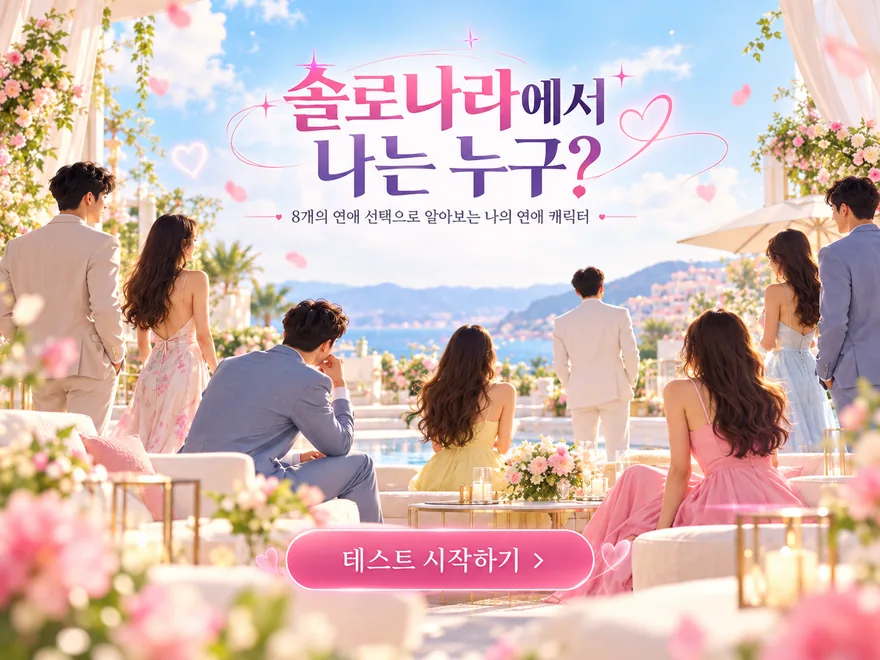
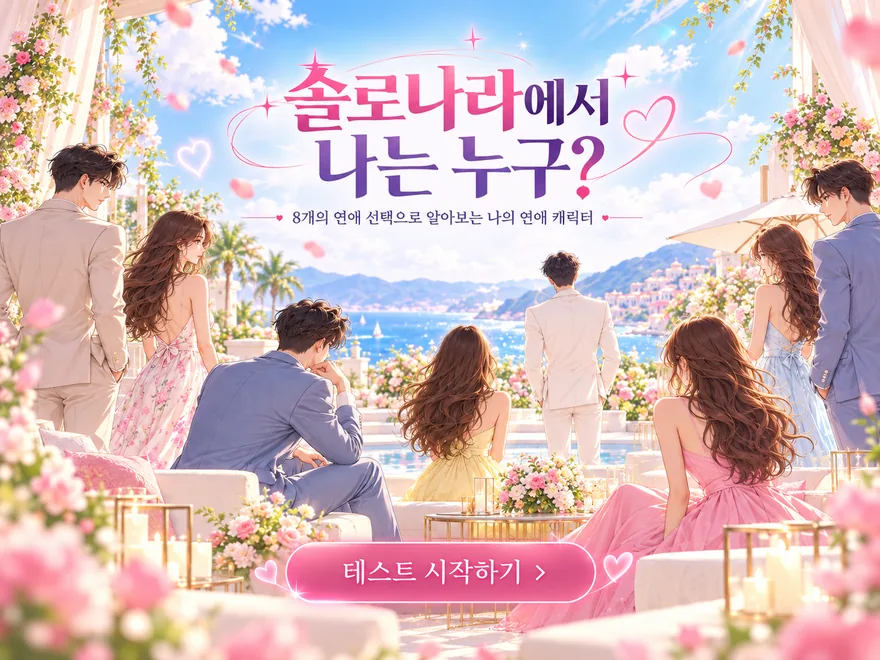
style(play): swap solo-nara key art to the illustrated version

diff --git a/사주/play/solo-nara/style.css b/사주/play/solo-nara/style.css
@@ -41,10 +41,10 @@ p{margin:0 0 16px}.muted{color:var(--muted);font-size:14px}.center{text-align:ce
 .hearts{position:absolute;inset:0;pointer-events:none;overflow:hidden;z-index:1}
 .hearts i{position:absolute;bottom:-20px;left:calc(6% + var(--n) * 16%);font-style:normal;font-size:calc(12px + (var(--n) * 3px) % 10px);color:var(--pink-2);opacity:0;animation:float-up 5.5s ease-in infinite;animation-delay:calc(var(--n) * .9s)}
 
-/* Intro: the hero art carries the title; the real start button overlays the painted one (32.5~67.3% x, 80.4~89.1% y). */
+/* Intro: the hero art carries the title; the real start button overlays the painted one (32.5~67.7% x, 82.4~91.2% y). */
 .hero{position:relative;margin:-22px -22px 0;line-height:0}
 .hero img{width:100%;height:auto;display:block}
-.hero-start{position:absolute;z-index:2;left:32%;top:80%;width:36%;height:9.5%;border:0;border-radius:999px;background:transparent;animation:hero-glow 2.4s ease-in-out .6s infinite}
+.hero-start{position:absolute;z-index:2;left:32%;top:82%;width:36%;height:9.5%;border:0;border-radius:999px;background:transparent;animation:hero-glow 2.4s ease-in-out .6s infinite}
 .hero-start:hover{background:rgba(255,255,255,.12)}.hero-start:active{transform:scale(.97)}
 .intro-meta{text-align:center;margin:18px 0 6px}
 .tag-rail{overflow:hidden;margin:14px -22px 18px;mask-image:linear-gradient(90deg,transparent,#000 15%,#000 85%,transparent)}

diff --git a/사주/play/solo-nara/index.html b/사주/play/solo-nara/index.html
@@ -21,7 +21,7 @@
   <meta name="twitter:description" content="8번의 선택으로 찾는 나의 솔로나라 이름. 너는 어떤 이름일까?">
   <meta name="twitter:image" content="https://umsh.kr/play/solo-nara/share-banner-v1.jpg">
   <meta name="twitter:image:alt" content="운명상회 솔로나라 캐릭터 테스트">
-  <link rel="stylesheet" href="./style.css?v=20261006b">
+  <link rel="stylesheet" href="./style.css?v=20261006c">
   <script defer src="https://cdn.jsdelivr.net/npm/@supabase/supabase-js@2/dist/umd/supabase.min.js"></script>
   <script defer src="/js/umsh-auth-session.js"></script>
   <script defer src="/js/common-auth-return.js"></script>

diff --git a/사주/play/solo-nara/preview.html b/사주/play/solo-nara/preview.html
@@ -6,7 +6,7 @@
   <title>결과 디자인 미리보기 | 운명상회</title><meta name="robots" content="noindex,nofollow">
   <meta name="theme-color" content="#fde9f4"><meta name="referrer" content="same-origin">
   <link rel="canonical" href="https://umsh.kr/play/solo-nara/">
-  <link rel="stylesheet" href="./style.css?v=20261006b">
+  <link rel="stylesheet" href="./style.css?v=20261006c">
   <script defer src="./content.js?v=20261006a"></script>
   <script defer src="./app.js?v=20261006b"></script>
 </head>
